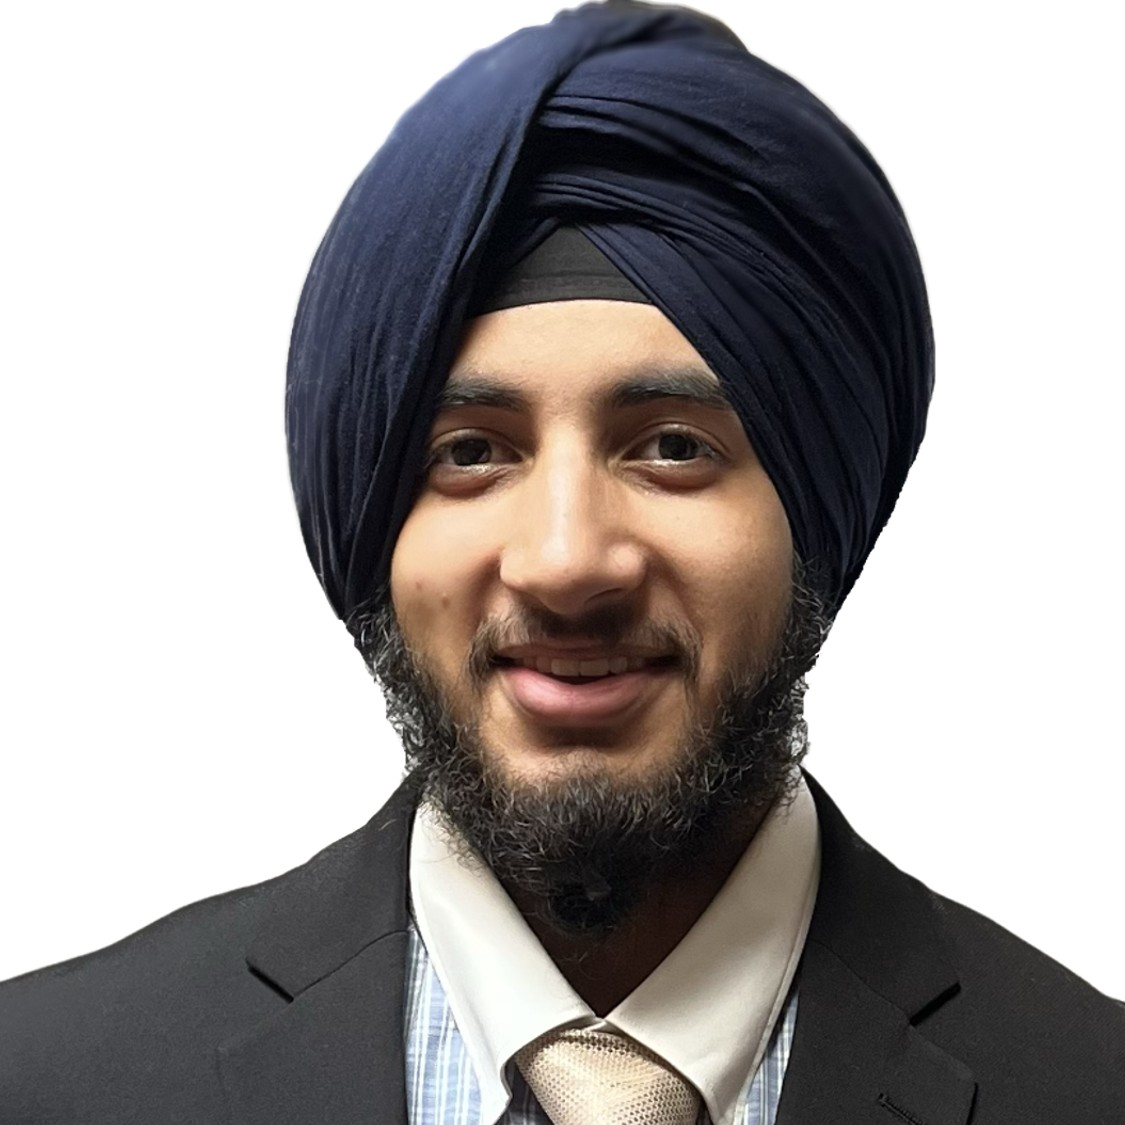
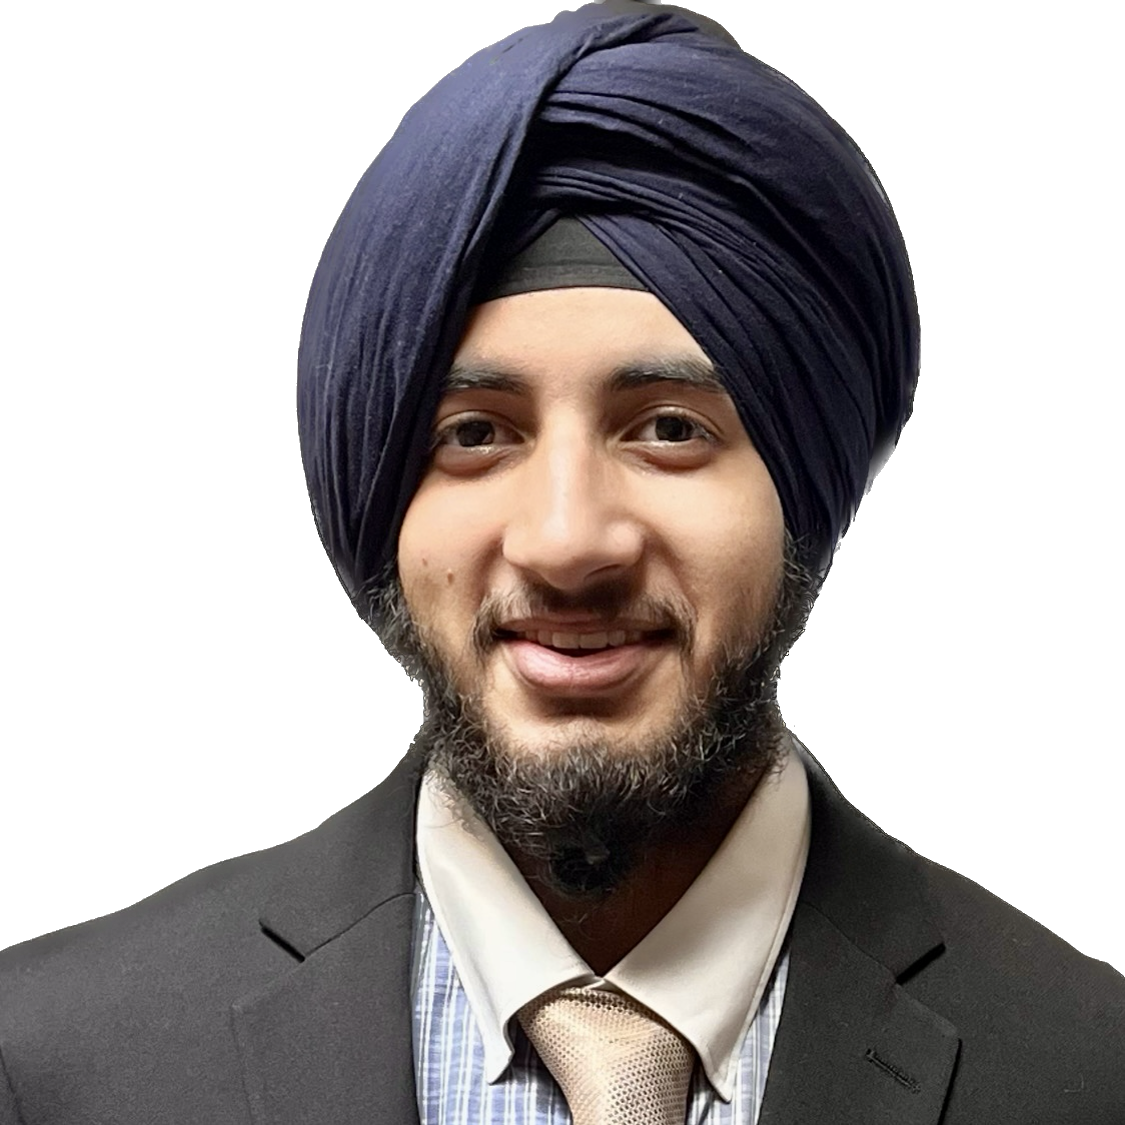
made pfp transparent

Changed region(s): [[0.0, 0.0, 1.0, 1.0], [0.7778, 0.84, 0.8711, 1.0]]

diff --git a/style.css b/style.css
@@ -272,7 +272,7 @@ a:hover {
     align-content: center;
 }
 
-.work img:not(:last-child){
+.work img:not(:last-child) {
     width: 300px;
     height: auto;
     display: flex;
@@ -307,7 +307,8 @@ a:hover {
     font-size: 20px;
 }
 
-.layer h1, .layer p{
+.layer h1,
+.layer p {
     padding: 5px;
     border-radius: 20px;
     border: 1px solid rgba(75, 2, 2, 0);
